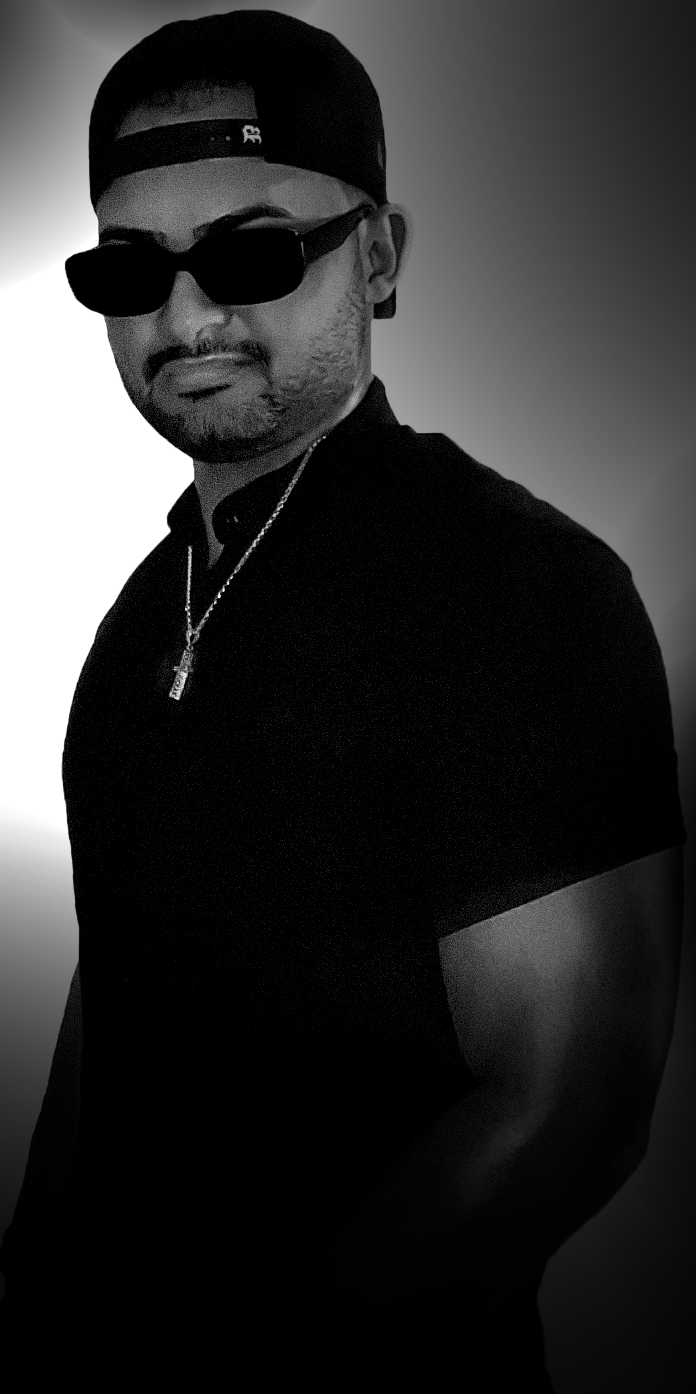
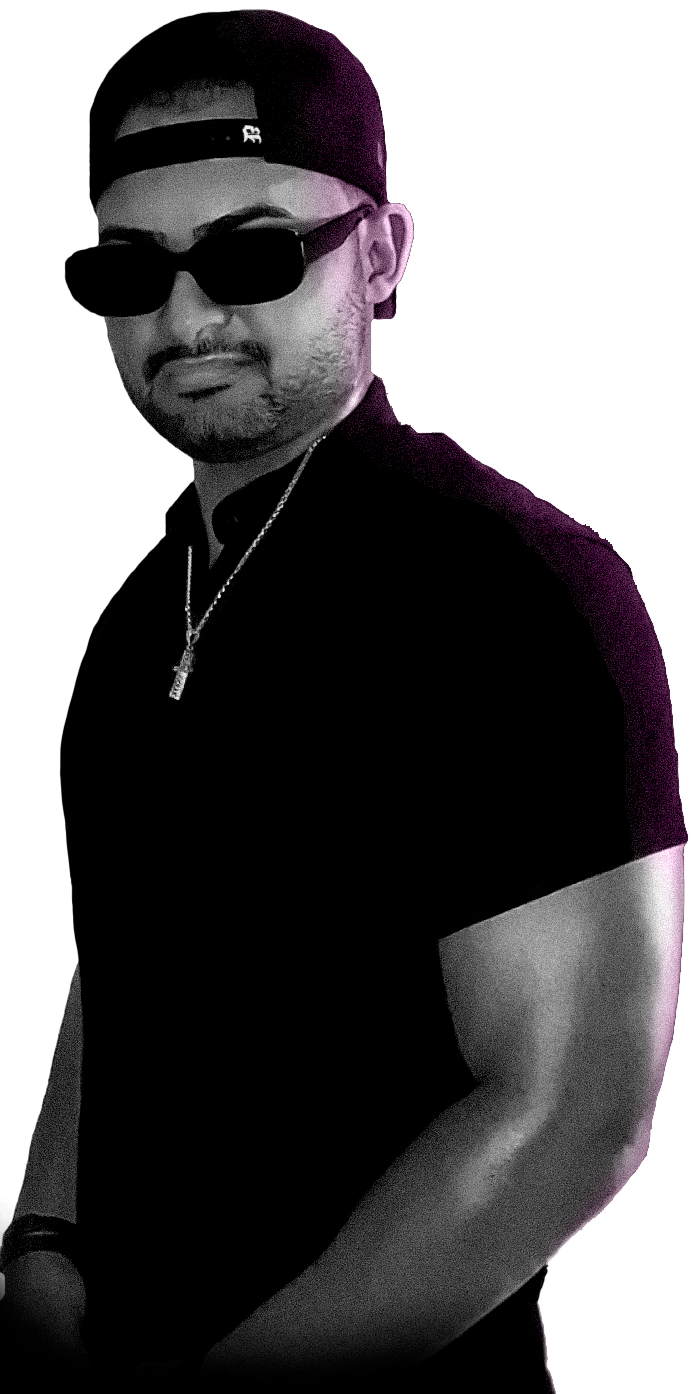
edição de fotos

diff --git a/index.html b/index.html
@@ -73,7 +73,7 @@
             
         </div>
 
-        <img src="img/PB3.png" alt="Foto de jarmeson Lacerda">
+        <img src="img/PB1.png" alt="Foto de jarmeson Lacerda">
     </section>
 
       <main>
@@ -91,7 +91,7 @@
 
             </div>
           </div>
-          <img src="img/foto2-SF.png" alt="foto 2 de Jarmeson Lacerda">
+          <img src="img/aaa.png" alt="foto 2 de Jarmeson Lacerda">
 
           <div class="sobre_conteudo">
             <div class="sobre_texto">
